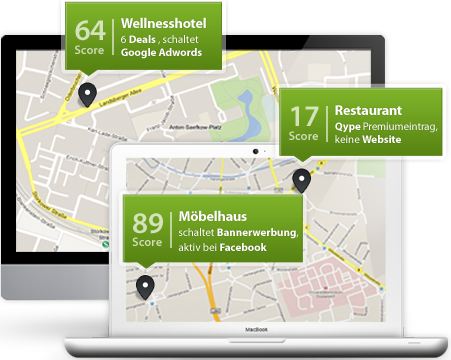
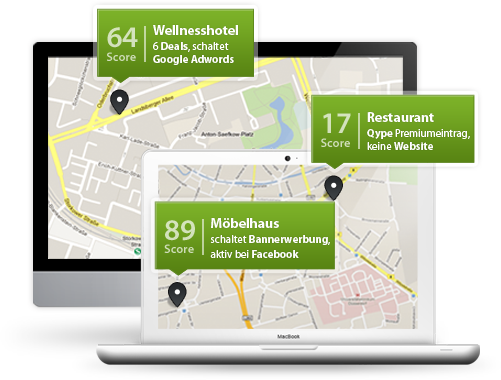
new screens.png for homepage, removed white line on login form

diff --git a/client/views/homepage/homepage.html b/client/views/homepage/homepage.html
@@ -2,7 +2,7 @@
 	<div class="whitebg homepage-bg">
 		<div class="greeting grid-wrapper">
 			<img src="/img/homepage/headline.png" class="headline" alt="unlock the local web">
-			<img src="/img/homepage/screens3.png" class="screens" alt="Beispiel Screen">
+			<img src="/img/homepage/screens.png" class="screens" alt="Beispiel Screen">
 	<!--
 			<h1>
 				Unlock
